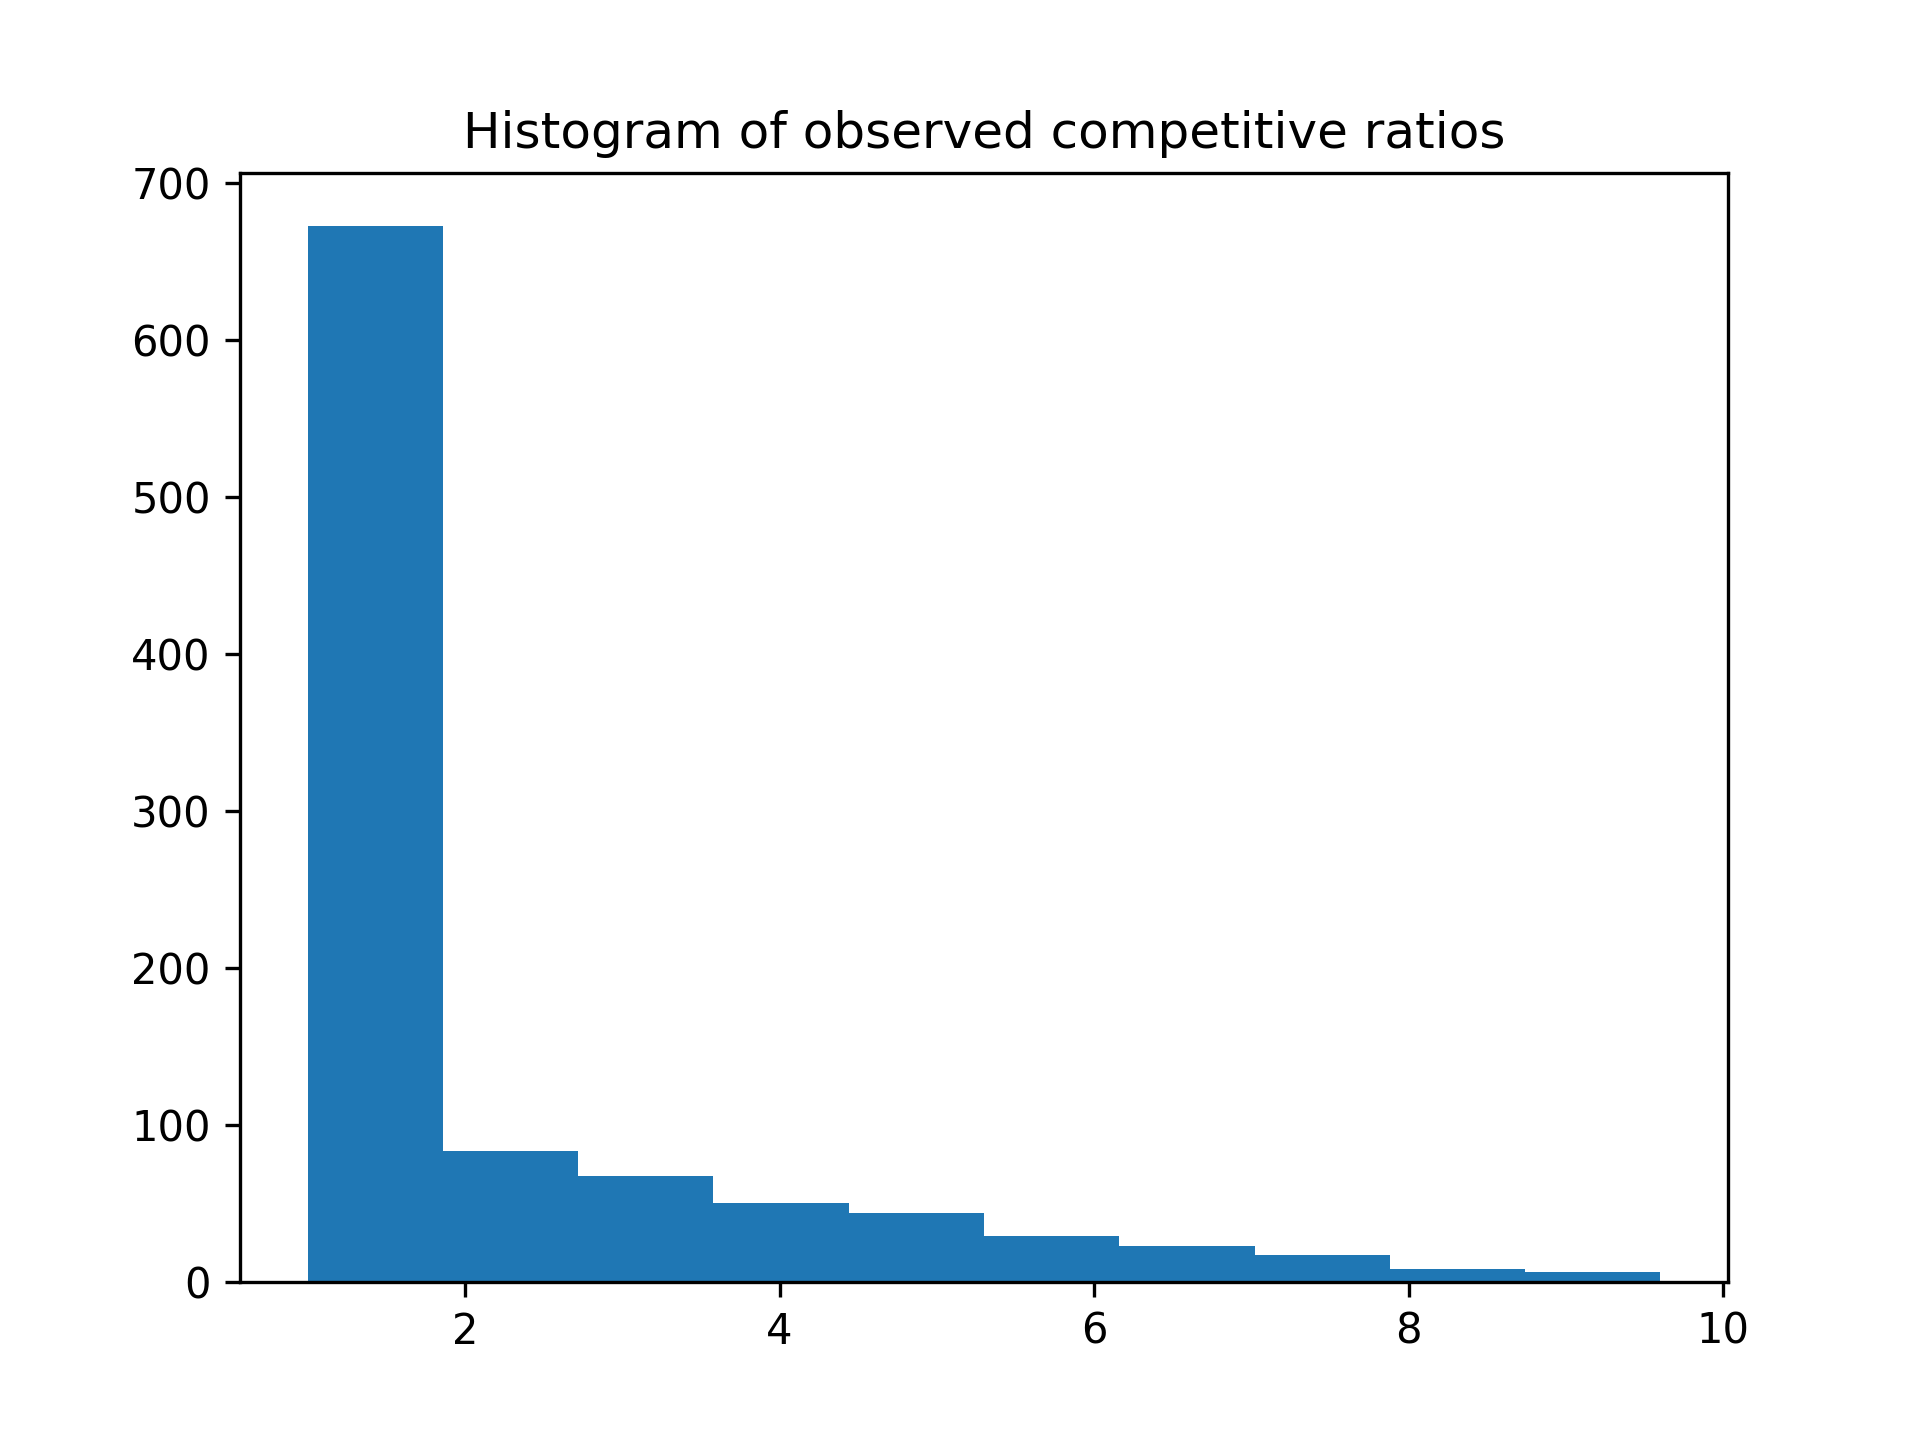
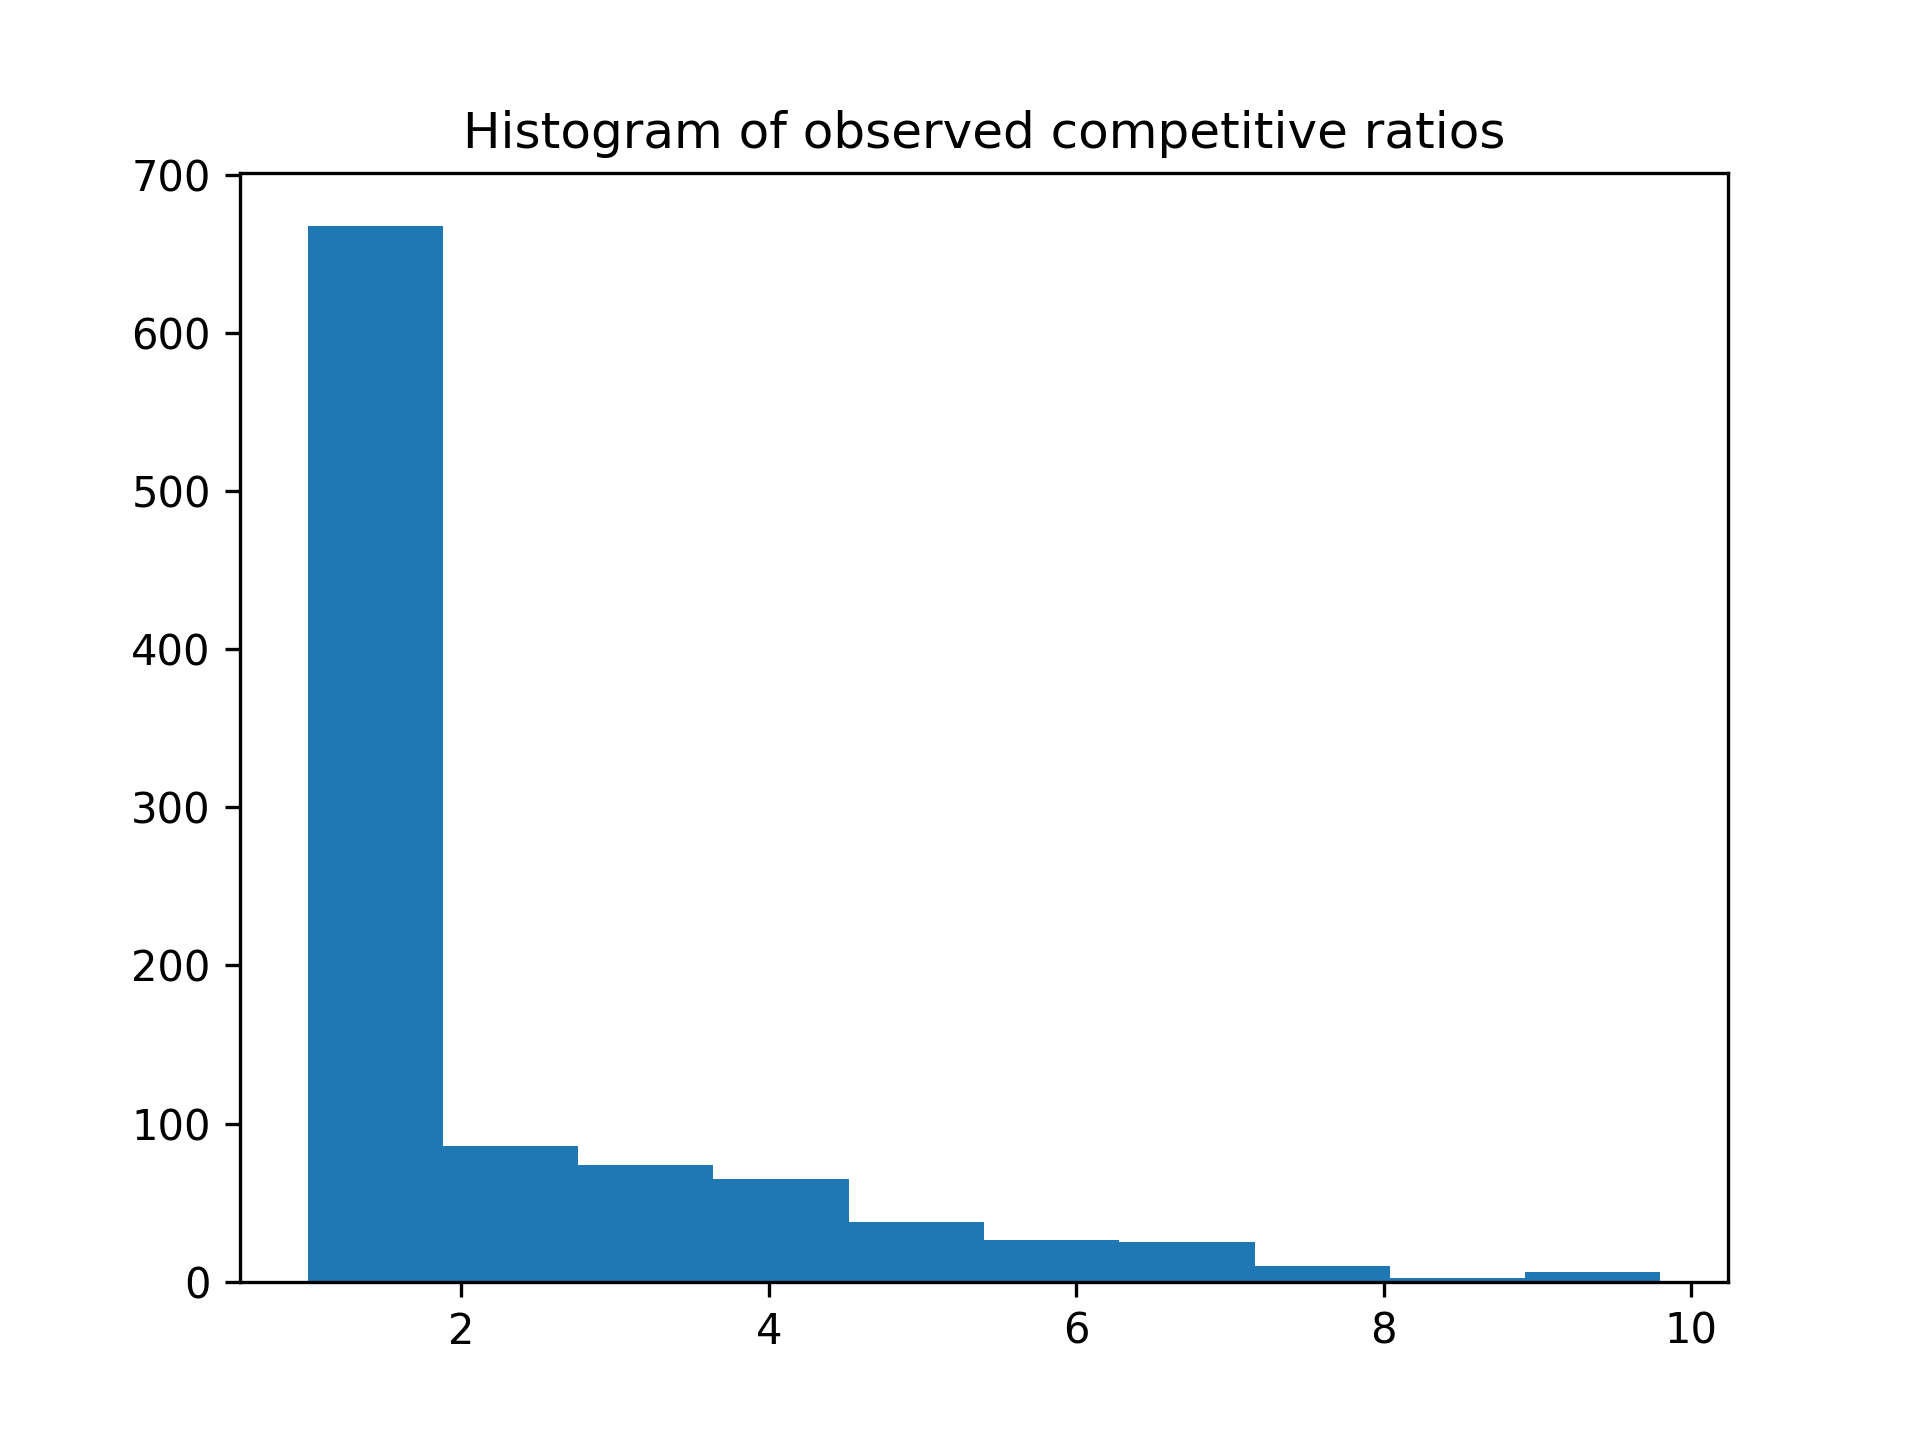
Fixed bug of not buying the last seat, added not-random random algorithm base, added some more documentation.

diff --git a/algorithms/online.py b/algorithms/online.py
@@ -8,8 +8,9 @@ class OnlineAlgorithms:
         self.n_remaining = None
         self.n = None
         self.m = None
-        self.decision_method = None #
+        self.decision_function = None
         self.buffer = []
+        self.algorithm_name = "Unknown"
 
     # for some algorithms the historic data might be useful
     def append_buffer(self, instance_data):
@@ -44,10 +45,9 @@ class OnlineAlgorithms:
             # update relevant variables
             self.n_remaining -= flying
             total_price += (flying * p_day) + (staying * h_day)
-             
-        # unsure of why this is here:
-        if self.n_remaining > 0: 
-            sys.exit(f"INVALID ALGORITHM! After execution of the algorithm, there are still {self.n_remaining} people remaining.")
+        
+        if self.n_remaining > 0:
+            sys.exit(f"INVALID ALGORITHM {self.algorithm_name}! After execution of the algorithm, there are still {self.n_remaining} people remaining, from original {self.n}. Days: {self.m}, current day: {day}")
 
         return [decisions, total_price]
 
@@ -63,6 +63,7 @@ class qThresholdOnline(OnlineAlgorithms):
     
     def __init__(self, q, p_max):
         super().__init__()
+        self.algorithm_name = "Q-Threshold Online"
         self.threshold = q * p_max
         self.decision_function = self.get_decision_function()
 
@@ -73,6 +74,8 @@ class qThresholdOnline(OnlineAlgorithms):
         def decide(n_remaining, day, s_day, p_day, h_day):
             if p_day < self.threshold:
                 decision = (s_day, n_remaining - s_day)
+            elif (day + 1) >= self.m: # if last day
+                decision = (s_day, n_remaining - s_day) # send max people back
             else:
                 decision = (0, n_remaining) # send no people, everyone stays 
 
@@ -85,6 +88,7 @@ class RandomOnline(OnlineAlgorithms):
 
     def __init__(self):
         super().__init__()
+        self.algorithm_name = "Random Online"
         self.decision_function = self.get_decision_function()
 
     # this function instantiates the decision function
@@ -92,10 +96,12 @@ class RandomOnline(OnlineAlgorithms):
 
         # given some data, decide (how many people to send back, how many people to keep in a hotel)
         def decide(n_remaining, day, s_day, p_day, h_day):
-            if "someCondition" == True:
-                decision = (s_day, n_remaining - s_day) # some decision
+            if "someCondition" == True: # decision function
+                decision = (s_day, n_remaining - s_day)
+            elif (day + 1) >= self.m: # if last day
+                decision = (s_day, n_remaining - s_day) # send max people back
             else:
-                decision = (0, 0) # send no people, everyone stays
+                decision = (0, n_remaining) # send no people, everyone stays 
 
             return decision
         

diff --git a/test_all.py b/test_all.py
@@ -4,8 +4,10 @@ import os
 sys.path.insert(1, os.path.dirname(os.path.dirname(__file__))) # needed to access other code
 
 import numpy as np
-from algorithms.online import qThresholdOnline
+from algorithms.online import qThresholdOnline, RandomOnline
 from utility_functions import generate_test_instances, test_online, plot_data
+
+# use this script to automate testing multiple algorithms.
 
 number_of_test_instances = 1000
 
@@ -16,3 +18,6 @@ instances = generate_test_instances(N=number_of_test_instances, n=1, m=10, s=1, 
 
 data = test_online(instances, qThresholdOnline(np.sqrt(1/p_max), p_max))
 plot_data(data, 'figures', 'qThreshold')
+
+data = test_online(instances, RandomOnline())
+plot_data(data, 'figures', 'RandomOnline')

diff --git a/README.md b/README.md
@@ -1,9 +1,9 @@
 # ADS Assignment
 By Tim Grimbergen, Agostino Sorbo, Daan van Dongen, Timo Post and Jesse Flikweert.
 
-Run a single algorithm against a single instance with python `>=3.9.0`, using `python main.py {case} {algorithmName}`.
+Run a single algorithm against a single instance with python `>=3.9.0`, using `python test_one.py {case} {algorithmName}`.
 * Replace `{case}` with the name of the input file you want to use within our program, e.g. `1` or `2`.
 * Replace `{algorithmName}` with the name of the algorithm you want to use, e.g. `offline`, `deterministic` or `random`.
-* If debugging, use an additional parameter 'debug', so `python main.py {case} {algorithmName} debug`, this will also print the totalCost value.
+* If debugging, use an additional parameter 'debug', so `python test_one.py {case} {algorithmName} debug`, this will also print the totalCost value.
 
-To run a larger test script, run `python test_all.py`.
+To run a larger test script, run `python test_all.py`. This will run and compare the qThreshold and Random Online Algorithms to the optimal offline algorithm.
